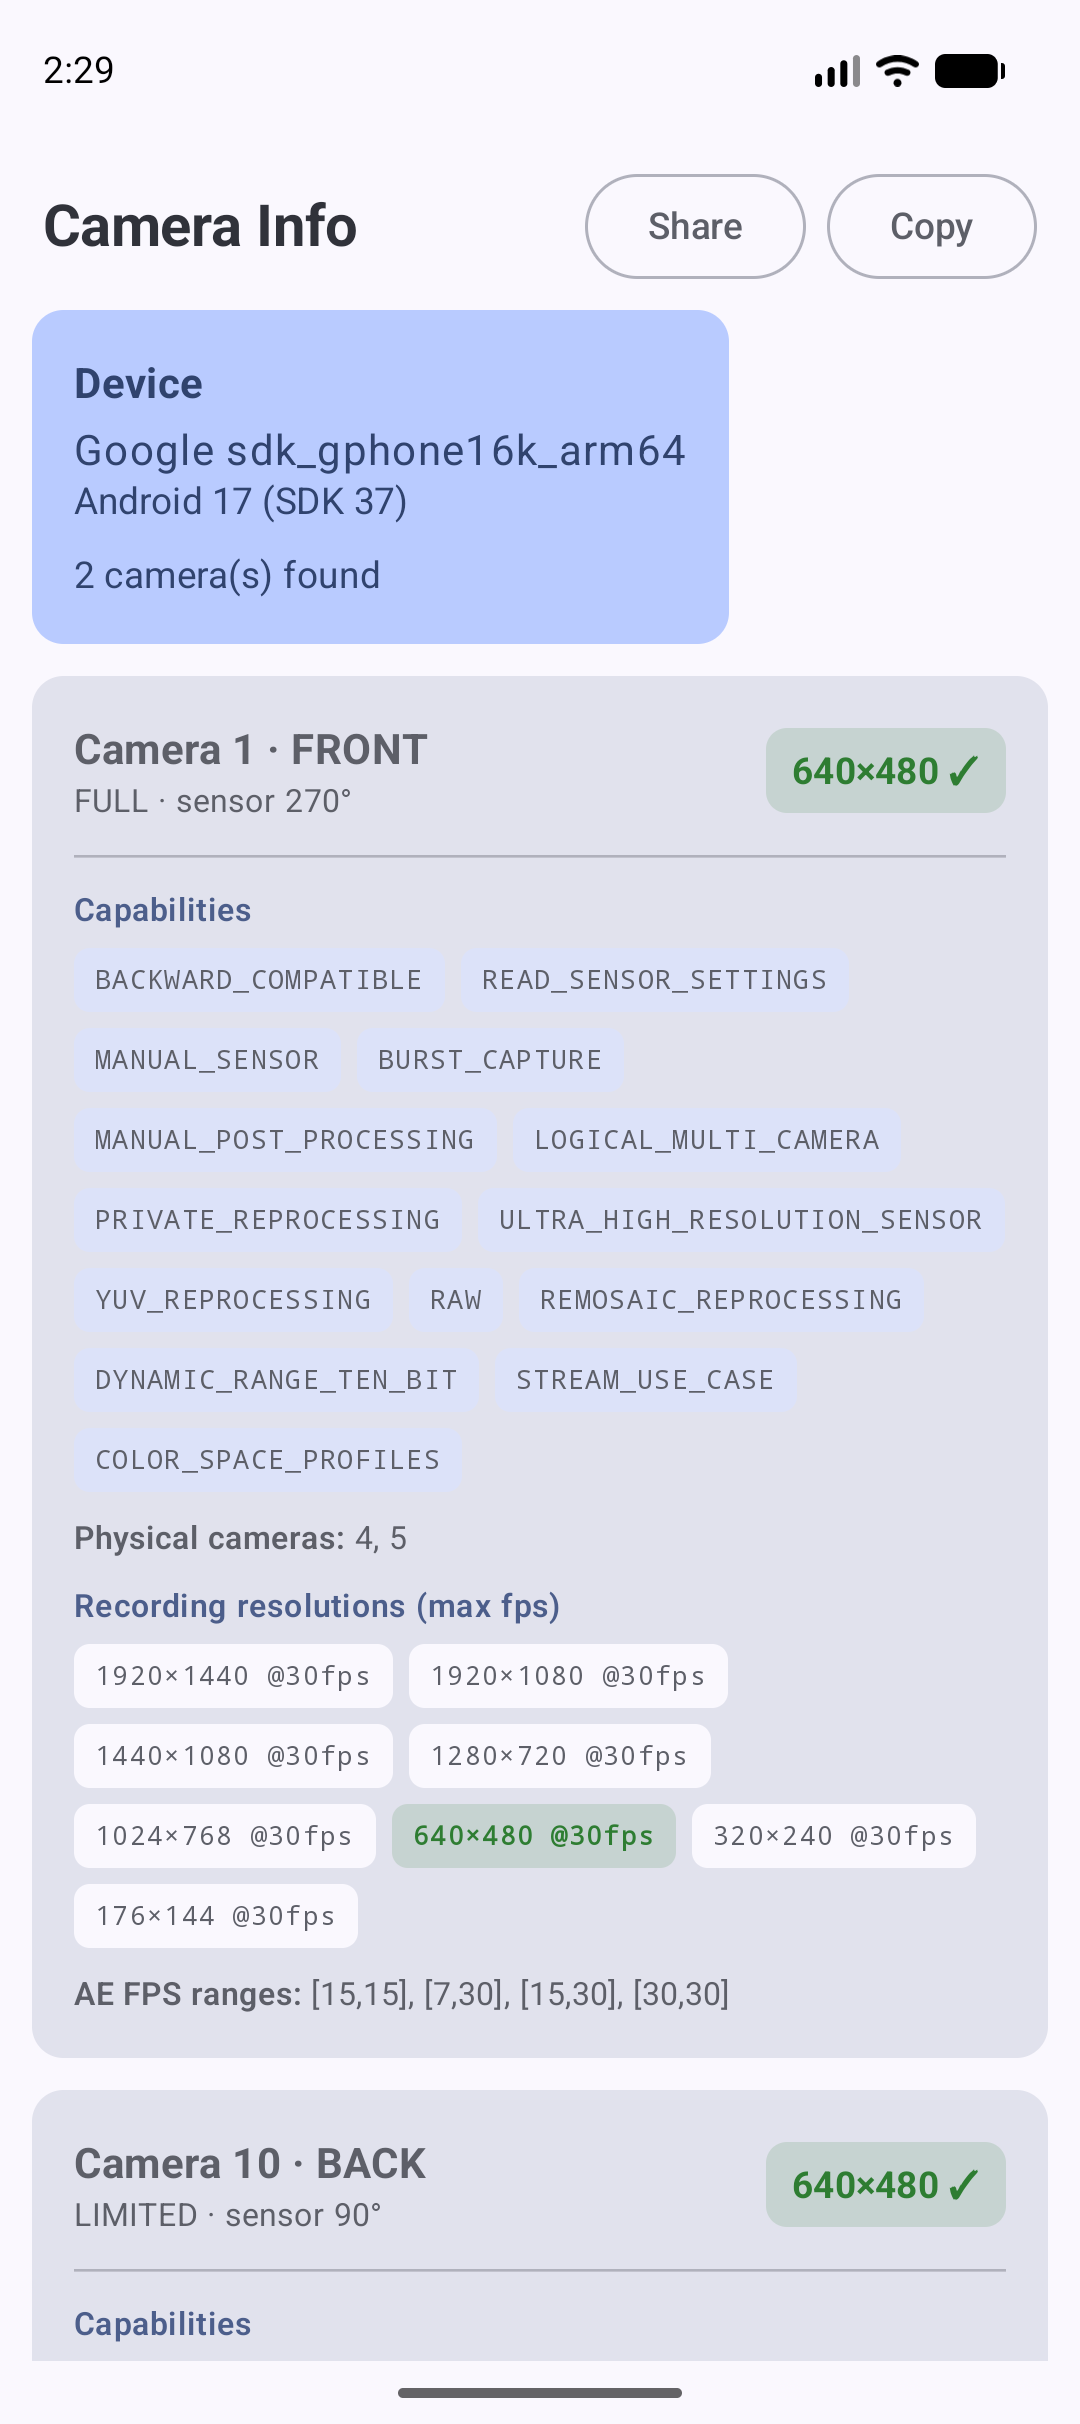
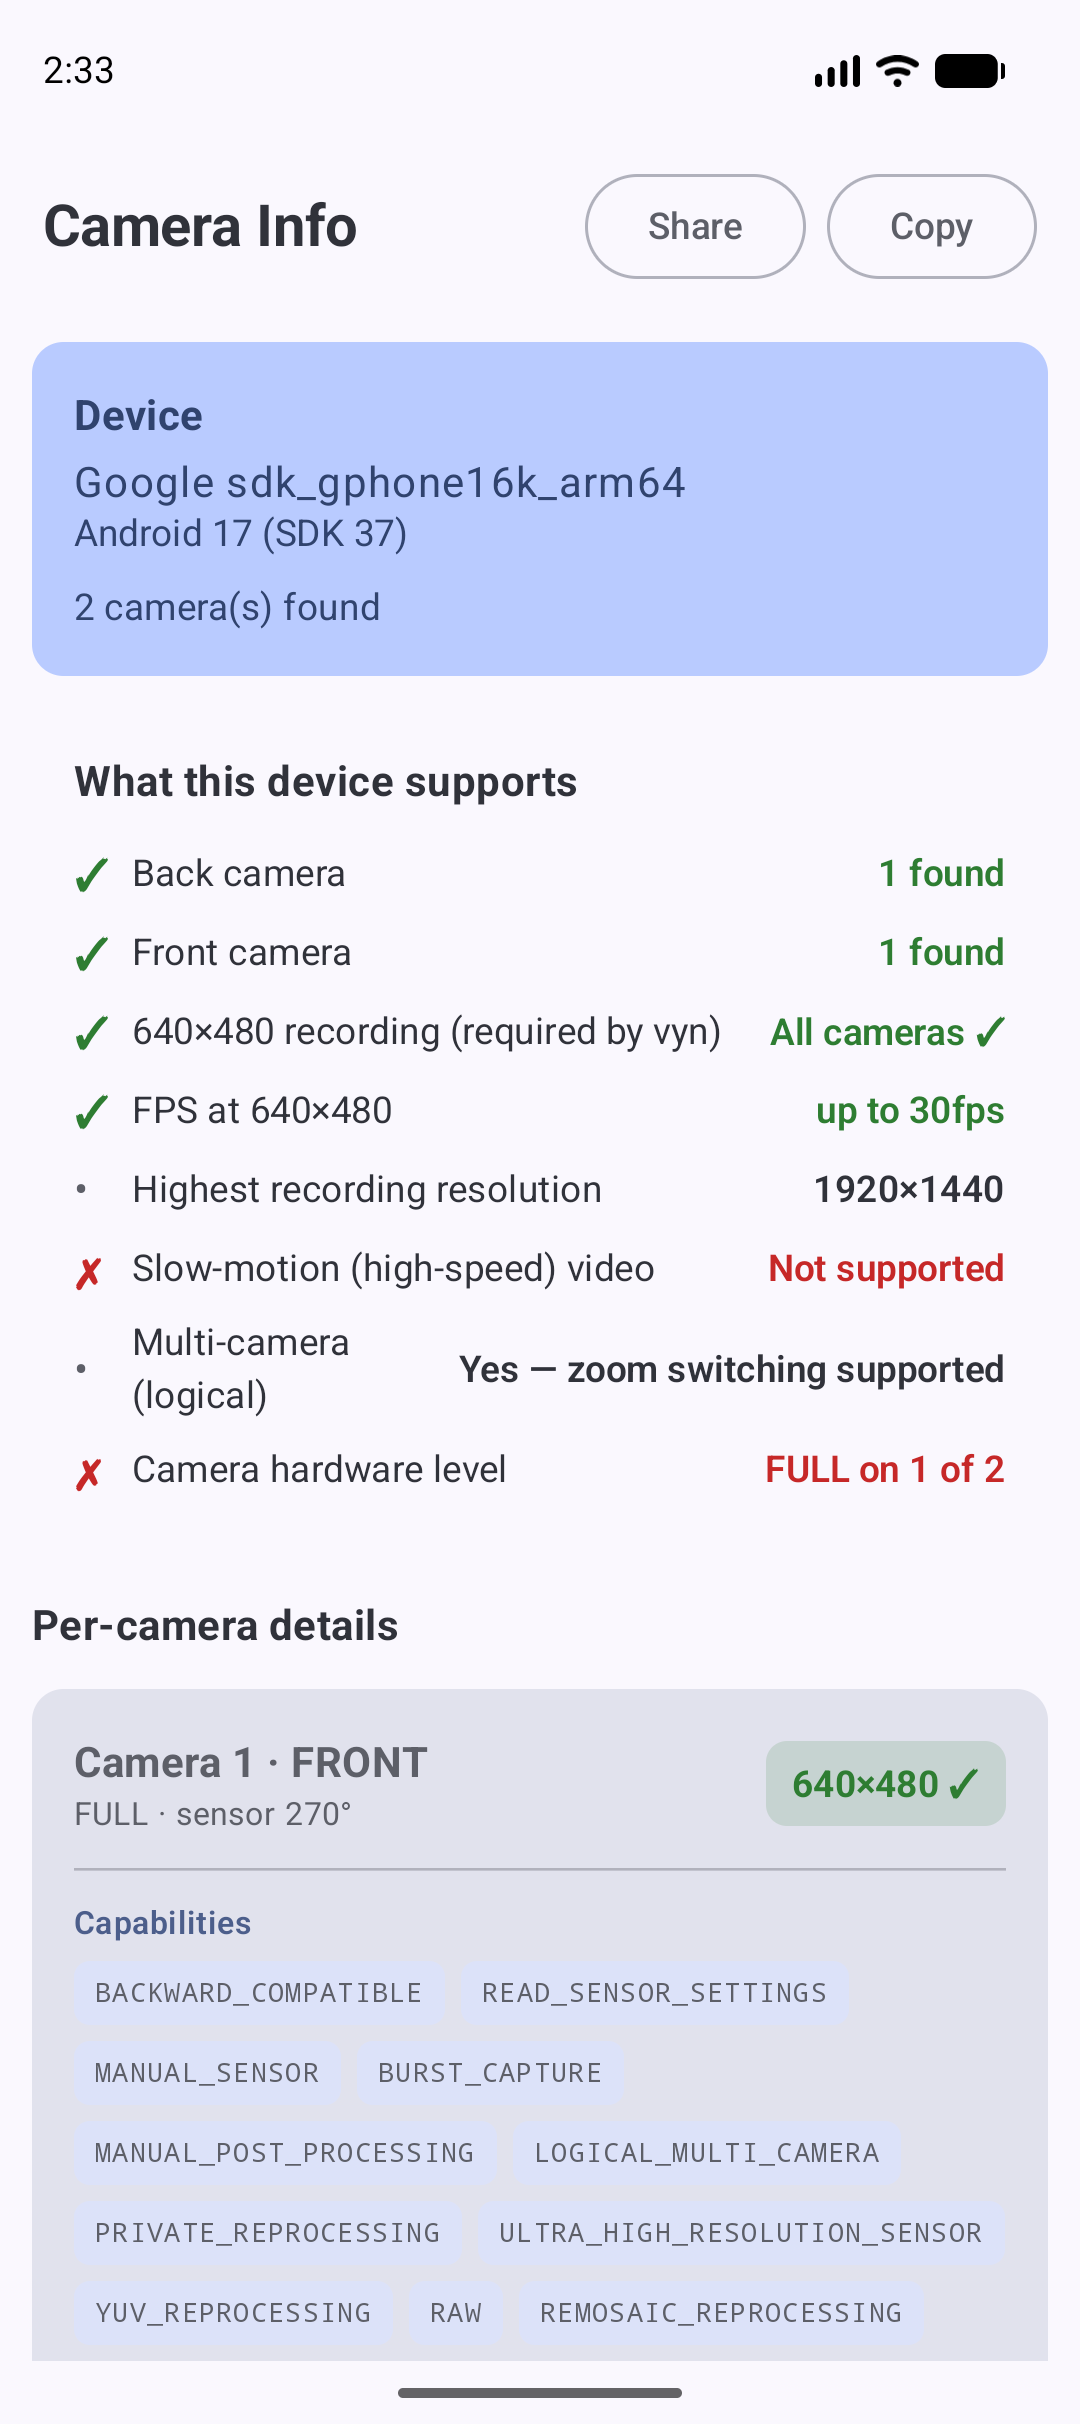
canera x

diff --git a/app/src/main/java/com/example/androidcamerainfo/MainActivity.kt b/app/src/main/java/com/example/androidcamerainfo/MainActivity.kt
@@ -122,14 +122,122 @@ fun CameraReportScreen() {
             verticalArrangement = Arrangement.spacedBy(12.dp)
         ) {
             item { DeviceCard(report) }
+            item { SummaryCard(report) }
+            item {
+                Text(
+                    "Per-camera details",
+                    style = MaterialTheme.typography.titleMedium,
+                    fontWeight = FontWeight.Bold,
+                    modifier = Modifier.padding(top = 4.dp)
+                )
+            }
             items(report.cameras) { camera -> CameraCard(camera) }
+        }
+    }
+}
+
+private data class CheckItem(val label: String, val value: String, val ok: Boolean?)
+
+private fun buildChecks(report: DeviceReport): List<CheckItem> {
+    val cameras = report.cameras
+    val front = cameras.filter { it.facing == "FRONT" }
+    val back = cameras.filter { it.facing == "BACK" }
+    val allSizes = cameras.flatMap { c -> c.recordingSizes.map { it.size } }
+    val maxRes = allSizes.maxByOrNull { it.width * it.height }
+    val targetFps = cameras.mapNotNull { c ->
+        c.recordingSizes.firstOrNull { it.isTarget && it.maxFps > 0 }?.maxFps
+    }.maxOrNull()
+    val anyHighSpeed = cameras.any { it.highSpeed.isNotEmpty() }
+    val logicalMulti = cameras.any { it.physicalIds.isNotEmpty() }
+    val fullOrBetter = cameras.count {
+        it.hardwareLevel == "FULL" || it.hardwareLevel == "LEVEL_3"
+    }
+
+    return listOf(
+        CheckItem("Back camera", if (back.isNotEmpty()) "${back.size} found" else "Not found", back.isNotEmpty()),
+        CheckItem("Front camera", if (front.isNotEmpty()) "${front.size} found" else "Not found", front.isNotEmpty()),
+        CheckItem(
+            "640×480 recording (required by vyn)",
+            when {
+                cameras.isEmpty() -> "No cameras"
+                cameras.all { it.supportsTarget } -> "All cameras ✓"
+                else -> cameras.filter { it.supportsTarget }
+                    .joinToString { "Camera ${it.id}" }
+                    .ifEmpty { "NOT SUPPORTED" }
+            },
+            if (cameras.isEmpty()) null else cameras.all { it.supportsTarget }
+        ),
+        CheckItem(
+            "FPS at 640×480",
+            if (targetFps != null) "up to ${targetFps}fps" else "n/a",
+            targetFps?.let { it >= 30 }
+        ),
+        CheckItem(
+            "Highest recording resolution",
+            maxRes?.let { "${it.width}×${it.height}" } ?: "unknown",
+            null
+        ),
+        CheckItem("Slow-motion (high-speed) video", if (anyHighSpeed) "Supported" else "Not supported", anyHighSpeed),
+        CheckItem(
+            "Multi-camera (logical)",
+            if (logicalMulti) "Yes — zoom switching supported" else "No",
+            null
+        ),
+        CheckItem(
+            "Camera hardware level",
+            when {
+                fullOrBetter == cameras.size && cameras.isNotEmpty() -> "FULL/LEVEL_3 on all"
+                fullOrBetter > 0 -> "FULL on $fullOrBetter of ${cameras.size}"
+                else -> "LIMITED/LEGACY"
+            },
+            if (cameras.isEmpty()) null else fullOrBetter == cameras.size
+        )
+    )
+}
+
+@Composable
+private fun SummaryCard(report: DeviceReport) {
+    Card(colors = CardDefaults.cardColors(containerColor = MaterialTheme.colorScheme.surface)) {
+        Column(Modifier.padding(16.dp)) {
+            Text(
+                "What this device supports",
+                style = MaterialTheme.typography.titleMedium,
+                fontWeight = FontWeight.Bold
+            )
+            Spacer(Modifier.height(8.dp))
+            buildChecks(report).forEach { item ->
+                Row(
+                    verticalAlignment = Alignment.CenterVertically,
+                    modifier = Modifier.padding(vertical = 3.dp)
+                ) {
+                    when (item.ok) {
+                        true -> Text("✓", color = VerdictYes, fontWeight = FontWeight.Bold, modifier = Modifier.width(22.dp))
+                        false -> Text("✗", color = VerdictNo, fontWeight = FontWeight.Bold, modifier = Modifier.width(22.dp))
+                        null -> Text("•", color = MaterialTheme.colorScheme.onSurfaceVariant, modifier = Modifier.width(22.dp))
+                    }
+                    Text(item.label, style = MaterialTheme.typography.bodyMedium, modifier = Modifier.weight(1f))
+                    Text(
+                        item.value,
+                        style = MaterialTheme.typography.bodyMedium,
+                        fontWeight = FontWeight.SemiBold,
+                        color = when (item.ok) {
+                            true -> VerdictYes
+                            false -> VerdictNo
+                            null -> MaterialTheme.colorScheme.onSurface
+                        }
+                    )
+                }
+            }
         }
     }
 }
 
 @Composable
 private fun DeviceCard(report: DeviceReport) {
-    Card(colors = CardDefaults.cardColors(containerColor = MaterialTheme.colorScheme.primaryContainer)) {
+    Card(
+        modifier = Modifier.fillMaxWidth(),
+        colors = CardDefaults.cardColors(containerColor = MaterialTheme.colorScheme.primaryContainer)
+    ) {
         Column(Modifier.padding(16.dp)) {
             Text("Device", style = MaterialTheme.typography.titleMedium, fontWeight = FontWeight.Bold)
             Spacer(Modifier.height(4.dp))
@@ -348,6 +456,16 @@ fun DeviceReport.toText(): String {
     out.appendLine("=== Device ===")
     out.appendLine(device)
     out.appendLine(android)
+    out.appendLine()
+    out.appendLine("=== Summary: what this device supports ===")
+    buildChecks(this).forEach { item ->
+        val mark = when (item.ok) {
+            true -> "[OK]"
+            false -> "[FAIL]"
+            null -> "[--]"
+        }
+        out.appendLine("$mark ${item.label}: ${item.value}")
+    }
     out.appendLine()
     out.appendLine("=== Cameras: ${cameras.size} ===")
     for (camera in cameras) {
